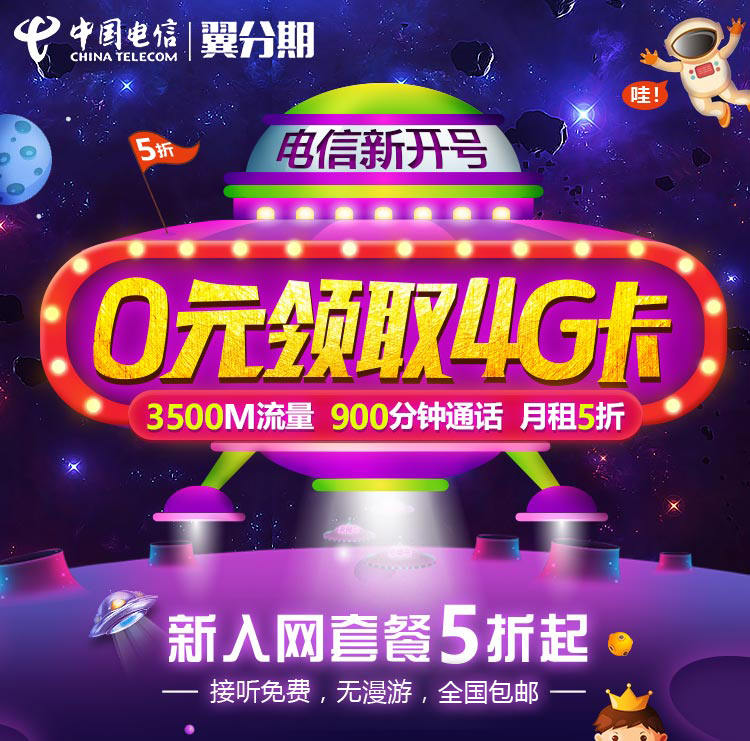
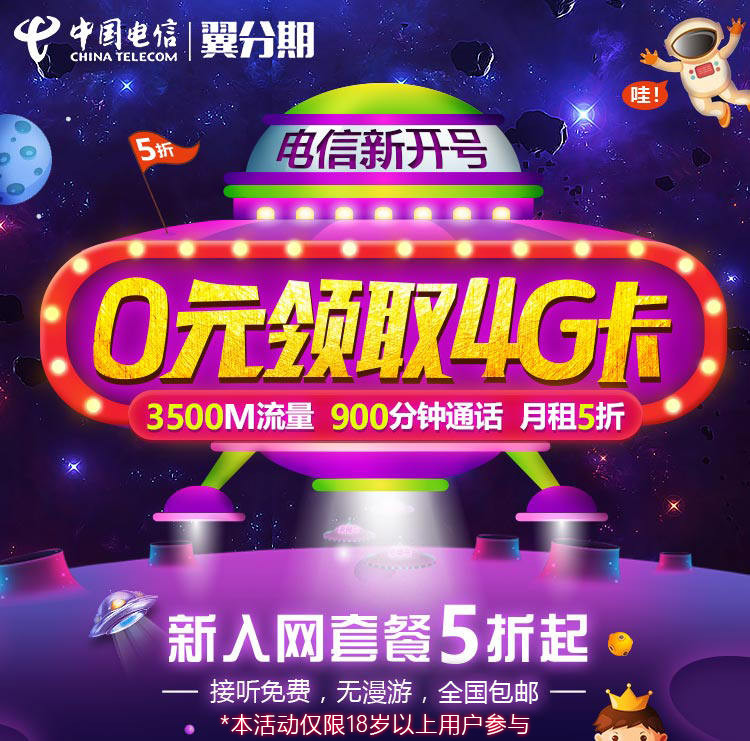
修改一下wap站的文案

Changed region(s): [[0.276, 0.9622, 0.7053, 1.0]]

diff --git a/public/html/pages/phoneCard/index/B/index.html b/public/html/pages/phoneCard/index/B/index.html
@@ -40,7 +40,8 @@
                     </div>
                     <div class="buy">
                         <div>
-                            <p style="margin-bottom:.2rem;">【<span>756</span>人已办理】</p>
+                            <p >【<span>756</span>人已办理】</p>
+                            <p style="margin-top:.1rem;margin-bottom: .2rem;color:#ef4d49">*本活动仅限18岁以上用户参与</p>
                             <p><a href="javascript:;" class="buy-now-btn" ng-click="setPkg($event,252)" >立即抢购办理</a></p>
                         </div>
                     </div>
@@ -151,6 +152,7 @@
                         <main-number title="选择电话号码" no-animate="true"></main-number>
                         <adr no-animate="true"></adr>
                         <div class="submit-form">
+                            <p style="margin-bottom:.15rem;">*本活动仅限18岁以上用户参与</p>
                            <a  href="javascript:;" ng-click="submitForm();" class="buy-now-btn">
                               免费领卡
                            </a>

diff --git a/public/html/modules/receiverAddress/n/adr.html b/public/html/modules/receiverAddress/n/adr.html
@@ -72,7 +72,7 @@
         <div class="weui-cell input-room" ng-class="{'weui-cell_warn':checkoutForm.receiverRoom.$dirty== true && checkoutForm.receiverRoom.$valid == false,'weui-cell_success':checkoutForm.receiverRoom.$valid == true}">
             <div class="weui-cell__hd"><label class="weui-label">详细地址：</label></div>
             <div class="weui-cell__bd weui-cell__primary">
-                <input type="text" id="receiverRoom" placeholder="请填写详细街道地址..." ng-blur="inputAddress(receiver.room)" ng-model="receiver.room" name="receiverRoom" class="weui-input" required/>
+                <input type="text" id="receiverRoom" placeholder="请填写完整街道和门牌号..." ng-blur="inputAddress(receiver.room)" ng-model="receiver.room" name="receiverRoom" class="weui-input" required/>
             </div>
             <div class="weui-cell__ft"><i class="weui-icon-warn"></i><i class="weui-icon-success"></i></div>
         </div>

diff --git a/public/html/pages/phoneCard/index/A/index.html b/public/html/pages/phoneCard/index/A/index.html
@@ -256,6 +256,7 @@
                         <main-number title="选择电话号码" no-animate="true"></main-number>
                         <adr no-animate="true"></adr>
                         <div class="submit-form">
+                            <p style="font-size:.14rem;color:#edd00d;text-align: center;margin-bottom:.1rem;">*本活动仅限18岁以上用户参与</p>
                             <a href="javascript:;" ng-click="submitForm();" class="img-box">
                                 <img src="/images/phoneCard/submitBtn.jpg">
                             </a>
